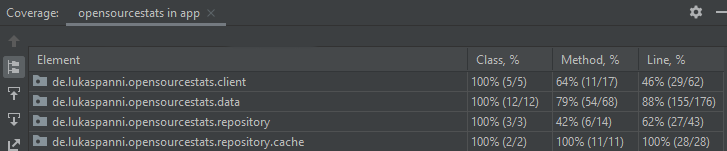
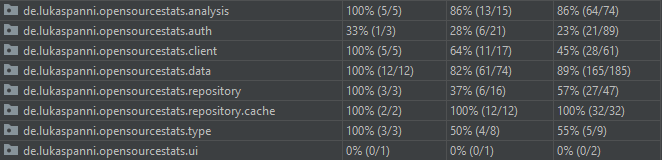
Update Unit-Testing + SOLID Documentation

diff --git a/dhbw_doc/sources/unit_testing.tex b/dhbw_doc/sources/unit_testing.tex
@@ -15,7 +15,7 @@ Teile des Codes in diesem Projekt werden für Android-Spezifische UI-Aufgaben be
 Stattdessen sollte hier zur Beurteilung der Testabdeckung nur die Code-Coverage der nicht-UI-Klassen betrachtet werden.
 \newline
 Allgemein wird darauf verzichtet triviale Funktionen, wie zum Beispiel Getter zu testen.
-Tests dieser Funktionen würden bei großem Aufwand nur einen minimalen Mehrwert bringen, da keine echte Funktionalität getestet wird.
+Tests dieser Funktionen würden bei großem Aufwand nur einen minimalen Mehrwert bringen, da keine "echte" Funktionalität getestet wird.
 Stattdessen sollen sich die Tests auf relevante Funktionalität des Systems fokussieren.
 Das bedeutet, dass vor allem die Klassen getestet werden sollen, die häufig verwendet werden und auch die Klassen, die für die Funktion der Anwendung unerlässlich sind.
 UI-Klassen, die aufgrund starker Abhängigkeiten zu Android-Klassen schwer testbar sind sollen weniger ausführlich getestet werden.
@@ -23,8 +23,9 @@ UI-Klassen, die aufgrund starker Abhängigkeiten zu Android-Klassen schwer testb
 Für die Tests innerhalb dieses Systems wurden drei Kernfunktionalitäten identifiziert, die von einer hohen Testabdeckung am stärksten profitieren.
 Diese sind das Abrufen von Daten von der API, die Konvertierung von API-Datentypen zu Datentypen der Anwendung und in diesem Zusammenhang auch das Caching von abgerufenen Daten um die Netzwerklast zu reduzieren.
 \newline
-Diese Funktionalitäten verteilen sich auf die Packages \textit{client}, \textit{data} und \textit{repository}.
-Abbildung \hyperref{fig:Code_Coverage} zeigt einen Code-Coverage-Report dieser Packages (Stand: Commit \href{https://github.com/lukaspanni/OpenSourceStats/tree/ac3c4098d8f89f5eed7142d675ca49c4d3dd724f}{ac3c409}).
+Diese Funktionalitäten verteilen sich auf die Packages \textit{analysis}, \textit{auth}, \textit{client}, \textit{data} und \textit{repository}.
+Abbildung \hyperref{fig:Code_Coverage} zeigt einen Code-Coverage-Report dieser Packages (Stand: Commit \href{https://github.com/lukaspanni/OpenSourceStats/tree/28770def85a66a72b343e6640f2dbfa8ba073782}{28770de}).
+Sten Pittet beschreibt in \cite{pittet_coverage}, dass 80\% Code-Coverage als gutes Ziel anerkannt sind, weshalb auch hier das Ziel gesetzt wird, mindestens 80\% der Methoden zu testen.
 \begin{figure}[h]
   \includegraphics{Code_Coverage.png}
   \centering
@@ -32,8 +33,19 @@ Abbildung \hyperref{fig:Code_Coverage} zeigt einen Code-Coverage-Report dieser P
   \label{fig:Code_Coverage}
 \end{figure}
 Der Code-Coverage-Report, zeigt, dass alle relevanten Klassen getestet wurden.
-Allerdings fällt dabei auf, dass die Coverage der einzelnen Methoden unterschiedlich ist, was darauf zurückzuführen ist, dass versucht wurde, triviale Funktionalität nicht ausführlich zu testen.
+Allerdings fällt dabei zunächst auf, dass die Coverage des \textit{ui}-Packages sehr schlecht ist, da der Fokus auf Tests der Funktionalität und nicht der Darstellung gelegt wurde.
+Außerdem schwankt die Methoden-Coverage stark, was darauf zurückzuführen ist, dass versucht wurde, triviale Funktionalität nicht ausführlich zu testen.
 Im Folgenden werden Funktionalität und Tests der einzelnen Packages noch weiter erläutert.
+\newline
+\newline
+Das analysis-Package enthält alle Klassen, die für die Erstellung von Analysen verwendet werden.
+Da diese Funktionalität, vermutlich noch am stärksten weiterentwickelt wird, wird hier eine gute Code-Coverage als sehr wichtig betrachtet.
+Sowohl auf Methoden als auch auf Zeilen bezogen wird hier eine gute Code-Coverage von 86\% erreicht.
+\newline
+\newline
+Im auth-Package, das alle Klassen die zur Authentifizierung benötigt werden enthält, wurde nur eine vergleichsweise kleine Code-Coverage von gerade mal 28\% aller Methoden erreicht, was als schlecht zu bewerten ist.
+Da für die Authentifizierung eine Third-Party-Library verwendet wird, ist hier allerdings nicht mit angemessenem Aufwand eine höhere Coverage erreichbar.
+Deshalb wurde die Entscheidung getroffen, die schlechte Coverage zu akzeptieren.
 \newline
 \newline
 Das data-Package enthält alle Klassen, die als Nutzdaten von der Anwendung verarbeitet werden.
@@ -41,7 +53,7 @@ Antworten, die von der API empfangen werden, werden in einem ersten Schritt in e
 Diese Konvertierungen werden in den Konstruktoren der Klassen durchgeführt. Ansonsten werden diese Klassen hauptsächlich zur Speicherung von Anwendungsdaten verwendet und enthalten nur vergleichsweise wenig weitere Funktionalität.
 Da die Konvertierung von API-Datentyp in Anwendungsdatentyp sehr häufig verwendet wird und die Anwendungsdatentypen generell an vielen verschiedenen verwendet werden, sind hier  ausführliche Tests notwendig.
 Der Fokus der Tests liegt dabei auf den Konstruktoren, die wenigen weiteren Funktionalitäten der Klassen sind weniger wichtig und meist trivial.
-Die Code-Coverage von 79\% aller Methoden wird deshalb als gut angesehen, vor allem wenn die Line-Coverage von 88\% in die Betrachtung mit einbezogen wird.
+Die Code-Coverage von 82\% aller Methoden wird deshalb als gut angesehen, vor allem wenn die Line-Coverage von 89\% in die Betrachtung mit einbezogen wird.
 \newline
 \newline
 Im repository-Package, sind einerseits Repository-Klassen enthalten, die den Zugriff auf Anwendungsdaten abstrahieren und dabei das Caching der Daten transparent machen.
@@ -49,23 +61,30 @@ Andererseits finden sich hier auch die Klassen, die für die Umsetzung des Cachi
 Die Repository-Klassen übernehmen die Funktion, die Daten aus dem Cache abzurufen, wenn diese dort vorhanden sind und ansonsten die Daten über Funktionalität, die im client-Package implementiert ist von der API-abzurufen.
 Als zentrale Komponente, um auf Daten zuzugreifen sind die Repository-Klassen deshalb  entscheidend für die Funktionalität der gesamten Anwendung.
 Aus diesem Grund ist es wichtig hier eine möglichst hohe Testabdeckung zu erreichen.
-Die niedrige Method-Coverage von nur 42\% ist hier trotzdem gut zu bewerten, da sie auf nicht getestete triviale Funktionen zurückzuführen ist.
+Die niedrige Method-Coverage von nur 37\% ist hier trotzdem angemessen, da sie auf nicht getestete triviale Funktionen zurückzuführen ist.
 Diese trivialen Funktionen sind verschieden Parametrisierte Konstruktoren und Hilfsfunktionen, die selbst wiederum nur Standard-Parameter für getestete Funktionen bereitstellen (siehe: \href{https://github.com/lukaspanni/OpenSourceStats/blob/ac3c4098d8f89f5eed7142d675ca49c4d3dd724f/app/src/main/java/de/lukaspanni/opensourcestats/repository/UserContributionsRepository.java#L51-L65}{UserCotributionsRepository.load...})
 \newline
 Die Komponente zum Caching ist ebenfalls wichtig, da ohne funktionierendes Caching sehr viele Anfragen über das Netzwerk gesendet werden müssen, was nicht nur die Menge der übertragenen Daten unnötig erhöht, sondern auch die Reaktionszeit der Anwendung verschlechtert.
 Deshalb ist  auch im cache-Package eine hohe Testabdeckung wünschenswert.
 In diesem Package wird sowohl für Method- als auch Line-Coverage ein Wert von 100\% erreicht, was als sehr gut zu bewerten ist.
-Durch diese hohe Coverage soll sichergestellt werden, dass das Caching wie erwartet funktioniert.
+Durch diese hohe Coverage soll sichergestellt werden, dass möglichst wenige Fehler beim Caching auftreten können und alle anderen Komponenten den Cache mit hoher Sicherheit verwenden können.
 \newline
 \newline
 Das client-Package enthält alle Klassen, die benötigt werden, um Daten von der API abrufen zu können und steht damit, wie auch das cache-Package, im Zusammenhang mit dem Datenzugriff über die Repository-Klassen.
 Es ist offensichtlich, dass auch diese Funktionalität von großer Bedeutung für die Funktionalität der Anwendung ist, und deshalb auch in diesem Package eine möglichst hohe Testabdeckung angestrebt wird.
-Method- und Line-Coverage sind hier mit 64\% beziehungsweise 46\% nicht als gut zu bewerten. Hier sollte die Coverage durch weitere Testes erhöht werden, was sich allerdings als schwierig herausstellte, da eine starke Kopplung an eine Thirt-Party-Library besteht, die nur schwer aufgelöst werden kann.
+Method- und Line-Coverage sind hier mit 64\% beziehungsweise 45\% nicht als gut zu bewerten.
+Hier sollte die Coverage durch weitere Testes erhöht werden, was sich allerdings als schwierig herausstellte, da eine starke Kopplung an eine Thirt-Party-Library besteht, die nur schwer aufgelöst werden kann.
+Deshalb wird die Code-Coverage aktuelle akzeptiert, sollte in Zukunft aber noch deutlich ausgebaut werden.
+\newline
+\newline
+Im Screenshot ist zusätzlich das Package \textit{type} aufgeführt.
+Dieses enthält ausschließlich automatisch generierten Java-Code, der für die Verwendung bestimmter Typen in Verbindung mit der GitHub-GraphQL-API benötigt wird.
+Die Code-Coverage dieses Packages ist deshalb nicht relevant.
 \newline
 \newline
 Im Gegensatz zu den genannten Bereichen ist eine hohe Testabdeckung im \textit{ui}-Package weniger wichtig und bringt nur wenig Nutzen. 
 Zusätzlich ist hier aufgrund der genannten Einschränkungen eine hohe Testabdeckung nur mit sehr hohem Aufwand möglich.
-Im Anbetracht des geringen Nutzens ist der Aufwand hier eine hohe Testabdeckung zu erreichen nicht gerechtfertigt, weshalb hier weitestgehend auf ausführliche Tests verzichtet wird.
+Im Anbetracht des geringen Nutzens ist der Aufwand hier eine hohe Testabdeckung zu erreichen nicht gerechtfertigt, weshalb hier weitestgehend auf Tests verzichtet wird.
 
 \newpage
 \section{Analyse und Begründung für Einsatz von Fake-/Mock-Objekten}

diff --git a/dhbw_doc/sources/programming_principles.tex b/dhbw_doc/sources/programming_principles.tex
@@ -17,6 +17,13 @@ Vorteile des Single Responsibility Principle sind unter anderem eine bessere Wie
 \subsubsection{Analyse und Begründung für SRP}
 \label{sec:Analyse_SRP}
 Bei der Betrachtung der Projektstruktur wird bereits deutlich, dass die Aufteilung des Codes in mehrere Packages bereits der Umsetzung des SRP dient.
+Das \textit{analysis}-Package enthält dementsprechend nur Code, der für das Durchführen von Analysen geladener Daten verwendet wird.
+Die hier enthaltene Klasse \textit{ContributionCountAnalyzer} hat die Funktion, Daten für eine Analyse zu laden und die eigentliche Analyse zu starten.
+Die eigentliche Analyse, die in diesem Fall ein Ranking der geladenen Daten nach verschiedenen Kriterien ist, ist in der Klasse \textit{ContributionCountRanking} und ihren Ableitungen implementiert.
+Jede der Ableitungen ist für das Ranking nach bestimmten Kriterien verantwortlich.
+Prinzipiell wäre es auch möglich gewesen, auf die Ableitungen zu verzichten und stattdessen die verschiedenen Ranking-Implementierungen in der Basisklasse umzusetzen.
+Um das SRP nicht zu verletzen und eine spätere Erweiterung zu erleichtern (siehe auch \ref{sec:OCP_Strategy}), wurde allerdings die Lösung gewählt, mehrere Ableitungen für jeweils eine Ranking-Implementierung zu erstellen. 
+\newline
 Zum Beispiel enthält das \textit{auth}-Package ausschließlich Code, der für die Authentifizierung (kurz: Auth) verantwortlich ist.
 Hier finden sich Interfaces und dazugehörige Implementierungen, die nur für die Authentifizierung eines Nutzers verwendet werden.
 Betrachtet man innerhalb dieses Packages die Klasse \textit{GithubOAuthHandler} genauer, erkennt man, dass diese Klasse die Hauptaufgabe hat, einen Nutzer über GitHub zu authentifizieren.
@@ -58,13 +65,16 @@ So wird der Code unter anderem auch Modularer.
 Insgesamt wurde beim Design der Klassen immer darauf geachtet, Erweiterungen mit möglichst wenig Aufwand zu ermöglichen.
 Im Laufe der Entwicklung konnten die Vorteile davon bereits mehrfach ausgenutzt werden um Erweiterungen der bestehenden Funktionalität zu realisieren.
 Da hier nicht für alle enthaltenen Klassen eine ausführliche Betrachtung erfolgen kann werden stattdessen einige Beispiele angeführt.
+\label{sec:OCP_Strategy}
+Als Beispiel für die Umsetzung des OCP, sollen zunächst die Klasse \textit{ContributionCountRanking} und ihre Ableitungen betrachtet werden.
+Diese Klassen implementieren ein Ranking gegebener Listen nach unterschiedlichen Kriterien.
+Eine Erweiterung des Systems um weitere Ranking-Kriterien stellt hier kein Problem dar, da eine solche Erweiterung als weitere Ableitung von \textit{ContributionCountRanking} erstellt werden kann.
+So muss kein bestehender Code geändert werden, eine Erweiterung um neue Funktionalität ist aber trotzdem möglich, was das OCP vollkommen erfüllt.
 \newline
 Ein gutes Beispiel für die Umsetzung des OCP stellt die Klasse \textit{ResponseCache} dar. 
 Diese Klasse wurde dafür konzipiert die Verwendung mit neuen Datentypen möglichst einfach zu gestalten.
 Anstatt eine Cache-Klasse für einen festen Datentyp zu erstellen wurde diese Klasse durch Verwendung von Generics so ausgelegt, dass alle Datentypen, die ein bestimmtes Interface implementieren, im Cache gespeichert werden können.
 Damit erfordert eine Erweiterung um Caching anderer Datentypen keinen weiteren Aufwand als die Implementierung der benötigten Interfaces.
-\newline
-%TODO: weitere Beispiel suchen
 
 
 
@@ -78,7 +88,12 @@ Dadurch wird eine bessere, verständlichere Abstraktion gefördert und auch Fehl
 
 \subsubsection{Analyse und Begründung für LSP}
 Bei Betrachtung des Codes fällt auf, dass nur an vergleichsweise wenigen Stellen Vererbung eingesetzt wurde, was die Betrachtung in Bezug auf das LSP erleichtert.
-Das vermutlich beste Beispiel für die Verwendung des LSP findet sich im \textit{ui}-Package mit der Klasse \textit{DataAccessFragment} und ihren Ableitungen.
+Das erste Beispiel für die Umsetzung des LSP ist die Vererbungshierarchie ausgehend von der Klasse \textit{ContributionCountRanking}.
+Hier lässt sich jede Ableitung der Klasse (z.B. \textit{ContributionCountCommitRanking} und \textit{ContributionCountTotalContributionsRanking}) genau wie die Basisklasse verwenden, da jede der Ableitungen nur eine unterschiedliche Implementierung der gleichen Funktionaliät ist.
+Alle diese Klassen haben die Aufgabe, eine gegebene Liste zu sortieren, nach welchen Kriterien die Liste sortiert wird hängt aber von der jeweiligen Implementierung ab.
+Ein Verwender dieser Klassen kann einfach eine Implementierung durch eine andere ersetzen ohne dass Seiteneffekte auftreten.
+\newline
+Ein weiteres Beispiel für die Verwendung des LSP findet sich im \textit{ui}-Package mit der Klasse \textit{DataAccessFragment} und ihren Ableitungen.
 Alle von dieser Klasse abgeleiteten Klassen können auf die gleich Art verwendet werden um Daten mithilfe eines \textit{DataAccessViewModel}s zu laden.
 Dabei sind die Ableitungen dafür verantwortlich, ein passendes ViewModel zu laden.
 Ansonsten kann auf jeder Instanz einer dieser Ableitungen die \textit{loadData}-Methode aufgerufen werden um verschiedene Daten zu laden und im User-Interface anzuzeigen.
@@ -128,3 +143,8 @@ Dadurch wird auch die bereits angesprochene mögliche Aufteilung der Klasse \tex
 
 \newpage
 \section{GRASP}
+
+
+
+
+
